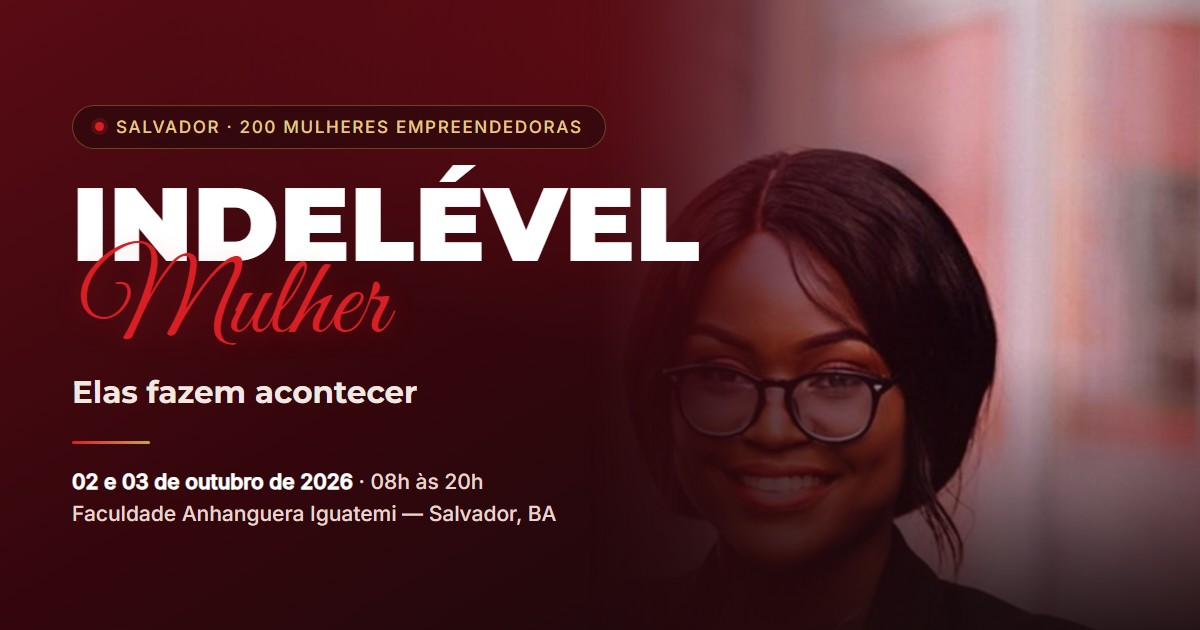
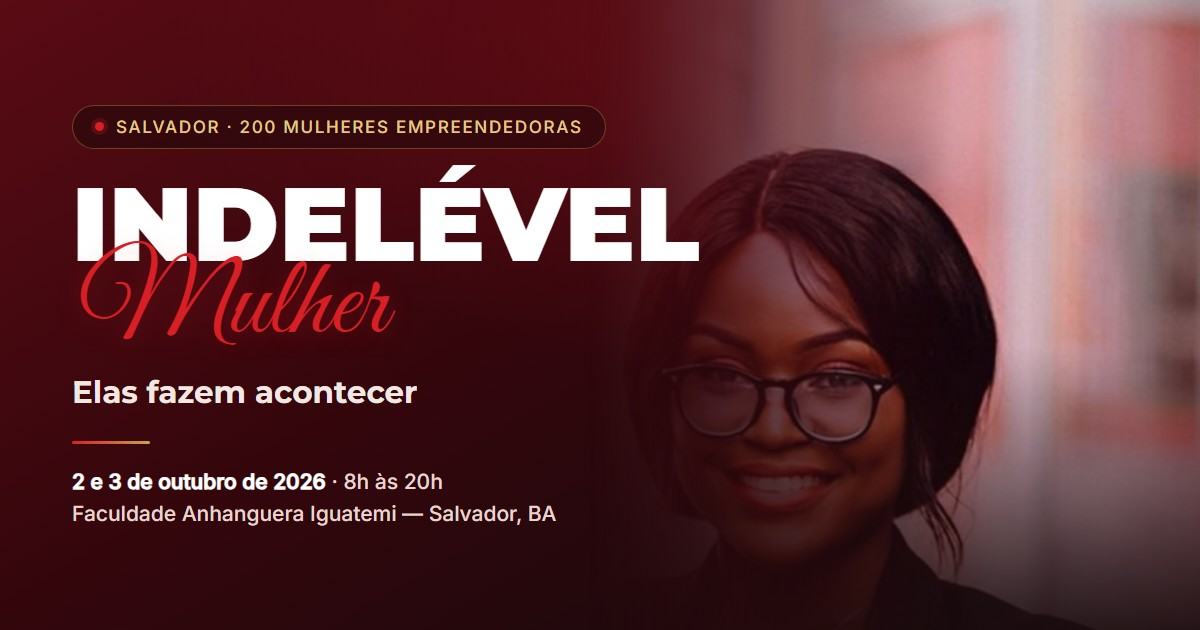
copy: revisao de texto da pagina inteira
- h1 deixa de repetir "Mulher": o script agora e lido normalmente e o texto
  escondido para leitor de tela foi removido.
- Datas padronizadas como "2 e 3 de outubro de 2026" e horarios como "8h as
  20h", sem zero a esquerda, inclusive no JS e na arte de compartilhamento.
- Barra de informacoes: "Faculdade Anhanguera Iguatemi" e "200 lugares para
  o evento presencial".
- Ajustes gramaticais em Pra/Para quem e, Conexoes, Talk shows e no card da
  cortesia, que deixa de dizer "as duas" quando o acompanhante e o esposo.
- "Cases" vira "Casos"; "checkout seguro" vira "ambiente seguro de pagamento".
- CTA final: "mulheres que decidiram crescer" e "Sua vaga estara disponivel
  enquanto houver lugares".
- Virgula no aposto da assinatura do Moises.

Changed region(s): [[0.0617, 0.754, 0.4008, 0.7841]]

diff --git a/index.html b/index.html
@@ -5,7 +5,7 @@
   <meta name="viewport" content="width=device-width, initial-scale=1.0">
   <meta name="theme-color" content="#150B0D">
 
-  <title>INDELÉVEL MULHER — Elas fazem acontecer | 02 e 03 de outubro, Salvador</title>
+  <title>INDELÉVEL MULHER — Elas fazem acontecer | 2 e 3 de outubro, Salvador</title>
   <meta name="description" content="Salvador vai reunir 200 mulheres empreendedoras em um único lugar. 20 mulheres no palco, 2 dias de imersão presencial na Anhanguera Iguatemi. 12x de R$ 19,96 ou R$ 200 à vista no PIX.">
 
   <!-- Open Graph / WhatsApp / Instagram
@@ -16,7 +16,7 @@
   <meta property="og:locale" content="pt_BR">
   <meta property="og:url" content="https://indelevelmulher.com.br/">
   <meta property="og:title" content="INDELÉVEL MULHER — Elas fazem acontecer">
-  <meta property="og:description" content="20 mulheres no palco, 2 dias, 200 empreendedoras. Salvador, 02 e 03 de outubro. Comprando hoje, você leva mais 1 pessoa.">
+  <meta property="og:description" content="20 mulheres no palco, 2 dias, 200 empreendedoras. Salvador, 2 e 3 de outubro. Comprando hoje, você leva mais 1 pessoa.">
   <meta property="og:image" content="https://indelevelmulher.com.br/assets/img/og-indelevel-mulher.jpeg">
   <meta property="og:image:width" content="1200">
   <meta property="og:image:height" content="630">
@@ -24,7 +24,7 @@
 
   <meta name="twitter:card" content="summary_large_image">
   <meta name="twitter:title" content="INDELÉVEL MULHER — Elas fazem acontecer">
-  <meta name="twitter:description" content="20 mulheres no palco, 2 dias, 200 empreendedoras. Salvador, 02 e 03 de outubro.">
+  <meta name="twitter:description" content="20 mulheres no palco, 2 dias, 200 empreendedoras. Salvador, 2 e 3 de outubro.">
   <meta name="twitter:image" content="https://indelevelmulher.com.br/assets/img/og-indelevel-mulher.jpeg">
 
   <link rel="canonical" href="https://indelevelmulher.com.br/">
@@ -68,16 +68,15 @@
       <div class="hero__text">
         <p class="hero__eyebrow r r-1">
           <span class="dot" aria-hidden="true"></span>
-          02 e 03 de outubro de 2026 &nbsp;·&nbsp; Salvador, BA
+          2 e 3 de outubro de 2026 &nbsp;·&nbsp; Salvador, BA
         </p>
 
         <h1 class="wordmark">
           <span class="wordmark__mask"><span class="wordmark__sans">Indelével</span></span>
-          <span class="wordmark__script" aria-hidden="true">Mulher</span>
-          <span class="sr-only">Mulher — Elas fazem acontecer</span>
+          <span class="wordmark__script">Mulher</span>
         </h1>
 
-        <p class="hero__tagline r r-2" aria-hidden="true">Elas fazem acontecer</p>
+        <p class="hero__tagline r r-2">Elas fazem acontecer</p>
 
         <p class="hero__sub r r-3">
           Salvador vai reunir <strong>200 mulheres empreendedoras</strong> em um único lugar.
@@ -108,10 +107,10 @@
 
     <div class="container">
       <ul class="hero__facts r r-6">
-        <li><strong>02 e 03 de outubro</strong><span>2026</span></li>
-        <li><strong>08h às 20h</strong><span>nos dois dias</span></li>
-        <li><strong>Anhanguera Iguatemi</strong><span>Salvador, BA</span></li>
-        <li><strong>200 lugares</strong><span>evento presencial</span></li>
+        <li><strong>2 e 3 de outubro</strong><span>de 2026</span></li>
+        <li><strong>8h às 20h</strong><span>nos dois dias</span></li>
+        <li><strong>Faculdade Anhanguera Iguatemi</strong><span>Salvador, BA</span></li>
+        <li><strong>200 lugares</strong><span>para o evento presencial</span></li>
       </ul>
     </div>
   </header>
@@ -131,7 +130,7 @@
         <p>
           O <strong>INDELÉVEL MULHER</strong> nasceu de uma constatação simples: falta à mulher
           empreendedora um lugar onde ela possa aprender, ser vista e criar conexão com quem está
-          trilhando o mesmo caminho. Em 02 e 03 de outubro, das 08h às 20h, esse lugar existe —
+          trilhando o mesmo caminho. Em 2 e 3 de outubro, das 8h às 20h, esse lugar existe —
           na Faculdade Anhanguera Iguatemi, em Salvador.
         </p>
         <p>
@@ -154,7 +153,7 @@
        ============================================================ -->
   <section class="section section--dark" id="para-quem">
     <div class="container">
-      <p class="label">Pra quem é</p>
+      <p class="label">Para quem é</p>
       <h2 class="title">Feito para a mulher que já decidiu. Falta apenas o caminho e os recursos.</h2>
 
       <ul class="cards">
@@ -172,7 +171,7 @@
         </li>
         <li class="card">
           <h3>Você quer estar perto de quem cresce</h3>
-          <p>As melhores oportunidades chegam por indicação. Duzentas empreendedoras na mesma sala é onde esse tipo de coisa começa.</p>
+          <p>As melhores oportunidades chegam por indicação. É com duzentas empreendedoras na mesma sala que esse tipo de oportunidade começa.</p>
         </li>
       </ul>
     </div>
@@ -217,7 +216,7 @@
       <ul class="stats">
         <li><strong>20</strong><span>mulheres no palco</span></li>
         <li><strong>2</strong><span>dias de imersão</span></li>
-        <li><strong>12h</strong><span>por dia, das 08h às 20h</span></li>
+        <li><strong>12h</strong><span>por dia, das 8h às 20h</span></li>
         <li><strong>200</strong><span>mulheres na plateia</span></li>
       </ul>
 
@@ -228,11 +227,11 @@
         </li>
         <li>
           <h3>Talk shows</h3>
-          <p>Cases de sucesso inspiradores de mulheres empreendedoras que fizeram acontecer — a história por trás do resultado, contada por quem viveu.</p>
+          <p>Casos de sucesso inspiradores de mulheres empreendedoras que fizeram acontecer — a história por trás do resultado, contada por quem viveu.</p>
         </li>
         <li>
           <h3>Conexões</h3>
-          <p>Doze horas por dia no mesmo espaço. Parceria, indicação e sociedade nascem de encontro presencial — não de comentário em post.</p>
+          <p>Doze horas por dia no mesmo espaço. Parcerias, indicações e sociedades nascem de encontros presenciais — não de comentários em post.</p>
         </li>
         <li>
           <h3>Experiências</h3>
@@ -242,7 +241,7 @@
 
       <p class="venue">
         <strong>Faculdade Anhanguera Iguatemi</strong> — Salvador, BA
-        &nbsp;·&nbsp; 02 e 03 de outubro de 2026, das 08h às 20h
+        &nbsp;·&nbsp; 2 e 3 de outubro de 2026, das 8h às 20h
       </p>
     </div>
   </section>
@@ -267,7 +266,7 @@
       </div>
       <p class="sr-only" id="countdownSr"></p>
 
-      <p class="countdown__note">02 de outubro de 2026, às 08h — horário de Salvador.</p>
+      <p class="countdown__note">2 de outubro de 2026, às 8h — horário de Salvador.</p>
 
       <a class="btn btn--primary btn--lg" href="https://pag.ae/826pQVu7J" target="_blank" rel="noopener">
         Quero garantir minha vaga
@@ -290,7 +289,7 @@
         <p class="offer__alt">ou <strong>R$&nbsp;200</strong> à vista no PIX</p>
 
         <ul class="offer__list">
-          <li>Acesso aos dois dias de evento, das 08h às 20h</li>
+          <li>Acesso aos dois dias de evento, das 8h às 20h</li>
           <li>20 mulheres no palco falando de negócio, gestão e vendas</li>
           <li>Palestras, conexões e experiências ao longo dos dois dias</li>
           <li>Presencial, na Faculdade Anhanguera Iguatemi, em Salvador</li>
@@ -299,15 +298,15 @@
         <a class="btn btn--primary btn--lg btn--block" href="https://pag.ae/826pQVu7J" target="_blank" rel="noopener">
           Quero garantir minha vaga
         </a>
-        <p class="offer__safe">Inscrição por checkout seguro do PagBank.</p>
+        <p class="offer__safe">Inscrição em ambiente seguro de pagamento do PagBank.</p>
       </div>
 
       <aside class="bonus">
         <p class="bonus__tag">Cortesia 1+1</p>
         <h3 class="bonus__title">Comprando hoje, você pode levar mais 1 pessoa sem pagar nada a mais.</h3>
         <p class="bonus__text">
-          Você paga uma inscrição e entram duas. Traga a sócia, a amiga ou o esposo:
-          dois dias completos para as duas, por um único investimento.
+          Você paga uma inscrição e entram duas pessoas. Traga sua sócia, uma amiga
+          ou seu esposo: dois dias completos para vocês, por um único investimento.
         </p>
       </aside>
     </div>
@@ -320,13 +319,13 @@
   <section class="section section--final" id="inscricao">
     <div class="container container--narrow">
       <h2 class="title title--xl">
-        Em outubro, Salvador estará repleta de mulheres que decidiram.
+        Em outubro, Salvador estará repleta de mulheres que decidiram crescer.
         <span class="script-line">Você estará entre elas?</span>
       </h2>
 
       <p class="final__text">
         São 200 lugares, dois dias e uma sala inteira de gente que resolveu parar de esperar o
-        momento certo. A sua vaga existe enquanto existir cadeira.
+        momento certo. Sua vaga estará disponível enquanto houver lugares.
       </p>
 
       <a class="btn btn--primary btn--lg" href="https://pag.ae/826pQVu7J" target="_blank" rel="noopener">
@@ -338,7 +337,7 @@
       </p>
 
       <p class="signature">
-        <span class="signature__name">Moisés Ribeiro</span>
+        <span class="signature__name">Moisés Ribeiro,</span>
         <span class="signature__role">idealizador do INDELÉVEL MULHER</span>
       </p>
     </div>
@@ -357,7 +356,7 @@
         <span class="footer__script">Mulher</span>
       </p>
       <p class="footer__line">
-        02 e 03 de outubro de 2026 · 08h às 20h · Faculdade Anhanguera Iguatemi, Salvador — BA
+        2 e 3 de outubro de 2026 · 8h às 20h · Faculdade Anhanguera Iguatemi, Salvador — BA
       </p>
 
       <p class="footer__support">Realização</p>

diff --git a/js/script.js b/js/script.js
@@ -1,6 +1,6 @@
 /* =================================================================
    INDELÉVEL MULHER — comportamento da página
-   1) Contagem regressiva até 02/10/2026 08h (America/Bahia = UTC-3)
+   1) Contagem regressiva até 2 de outubro de 2026, 8h (America/Bahia = UTC-3)
    2) CTA fixo no mobile, revelado depois do hero
    ================================================================= */
 (function () {
@@ -126,7 +126,7 @@
     if (srOut && minutes !== lastMinuteAnnounced) {
       lastMinuteAnnounced = minutes;
       srOut.textContent = 'Faltam ' + days + ' dias, ' + hours + ' horas e ' +
-        minutes + ' minutos para o início do evento, em 02 de outubro de 2026 às 08h.';
+        minutes + ' minutos para o início do evento, em 2 de outubro de 2026 às 8h.';
     }
   }
 
